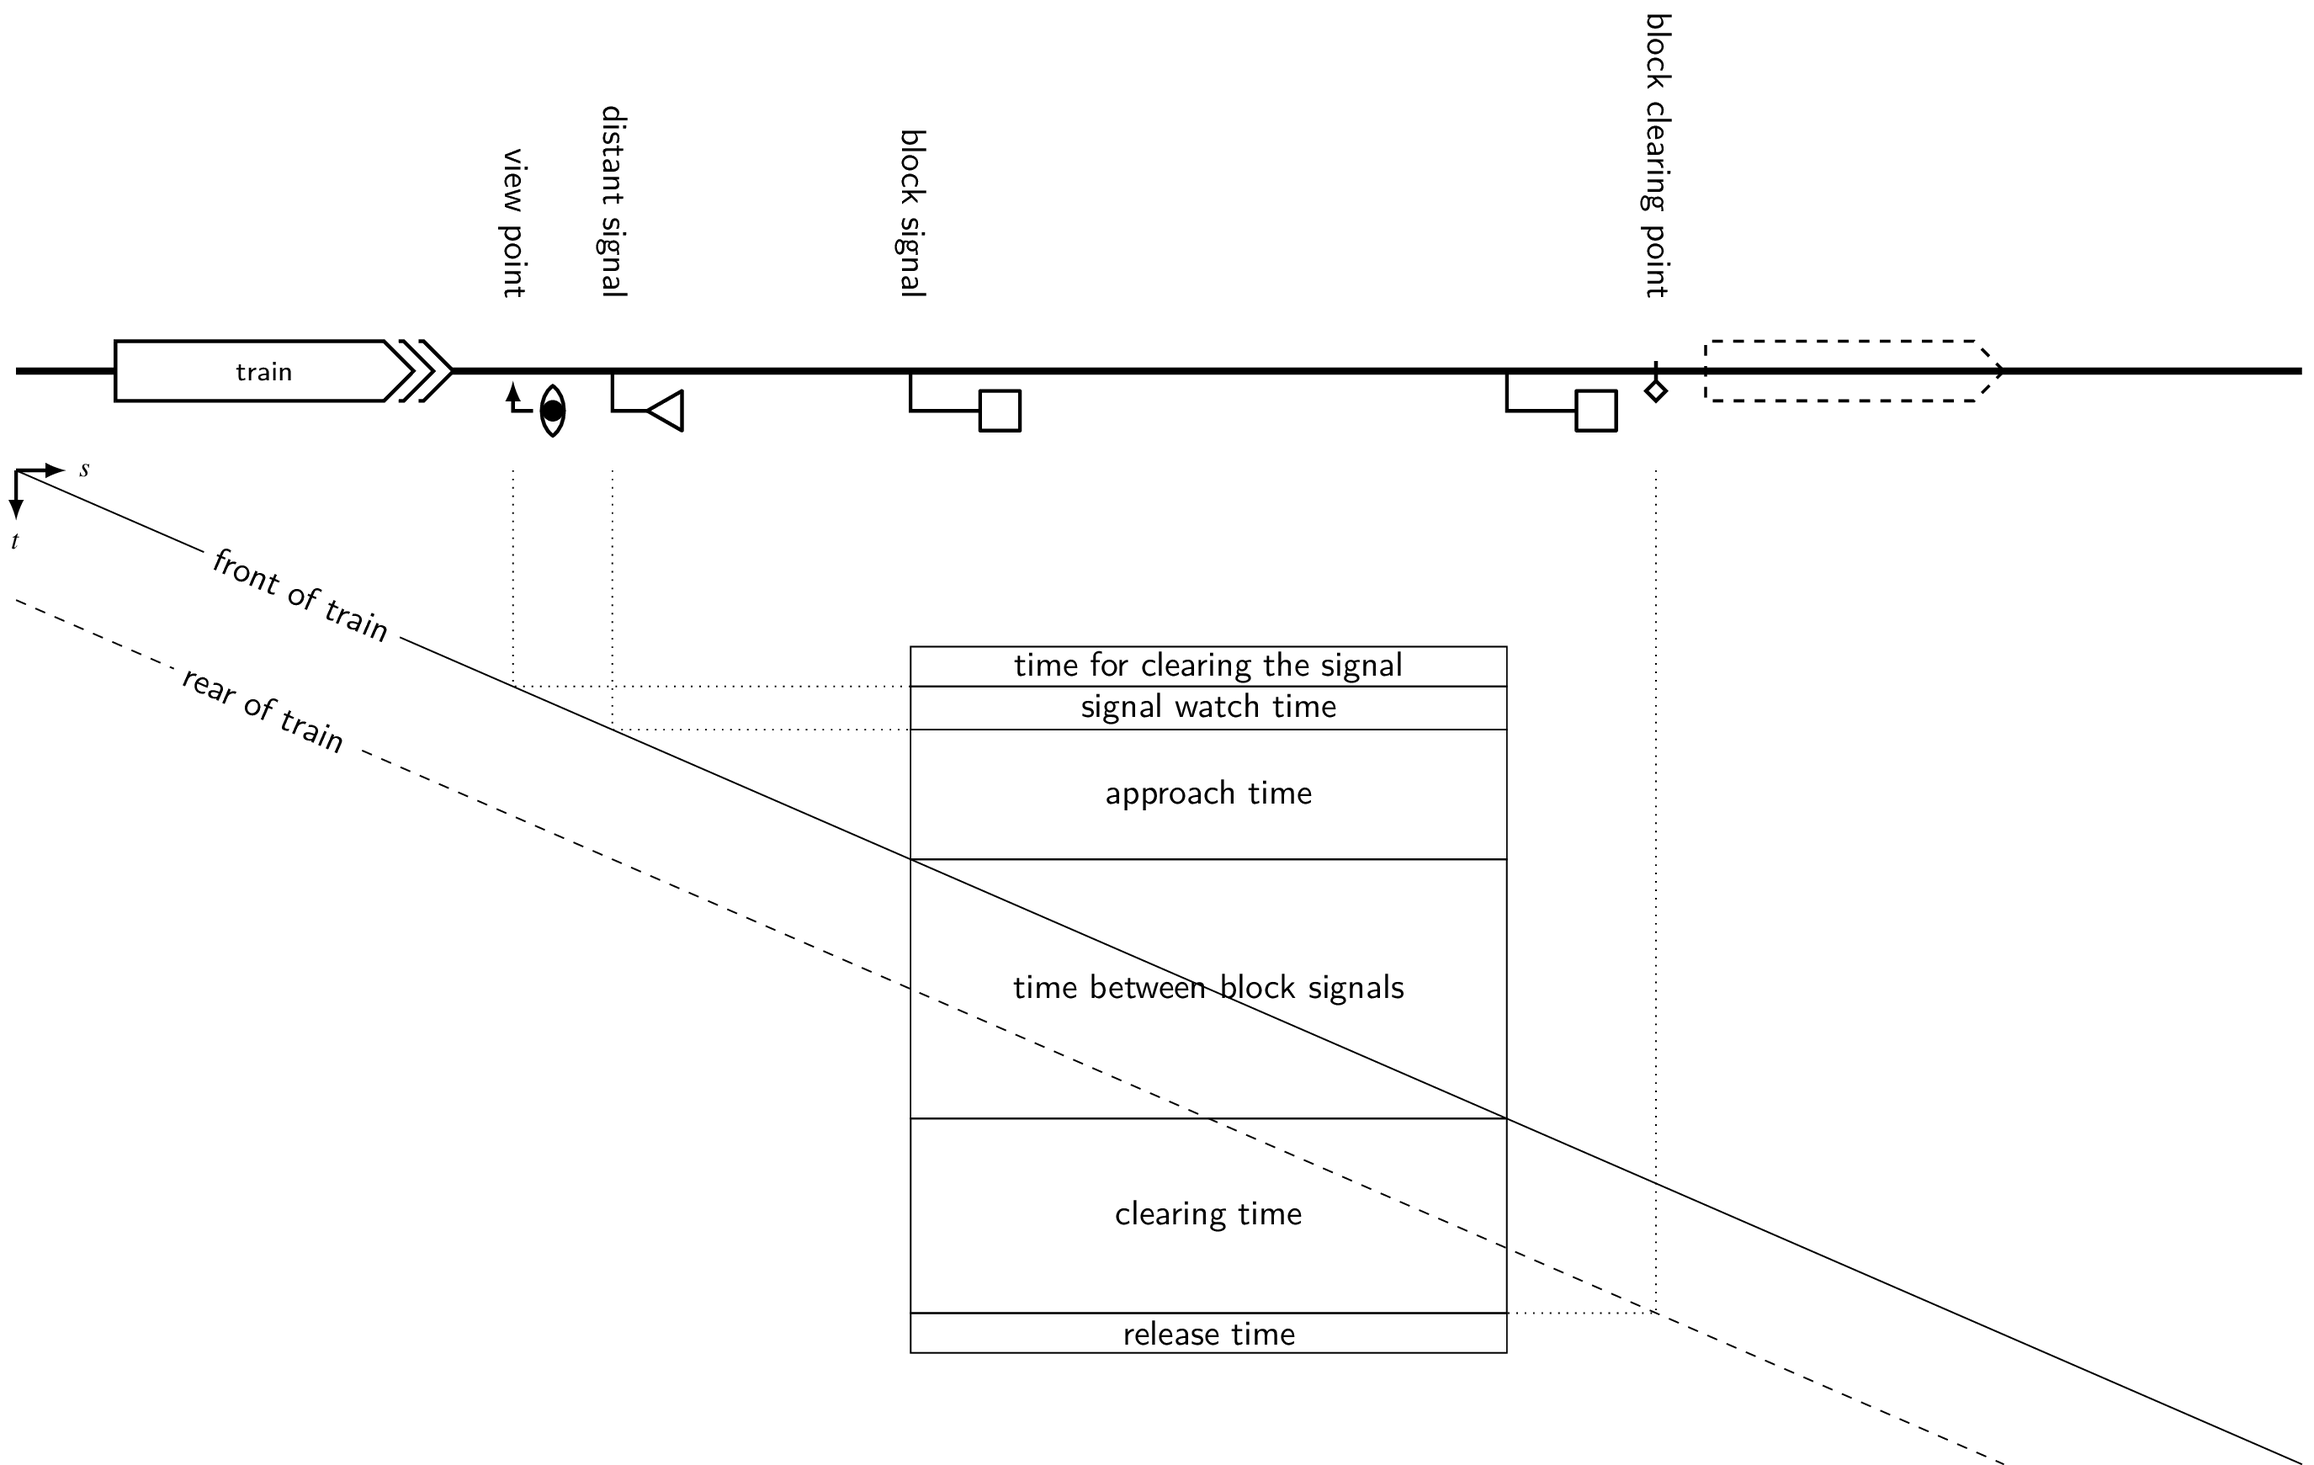
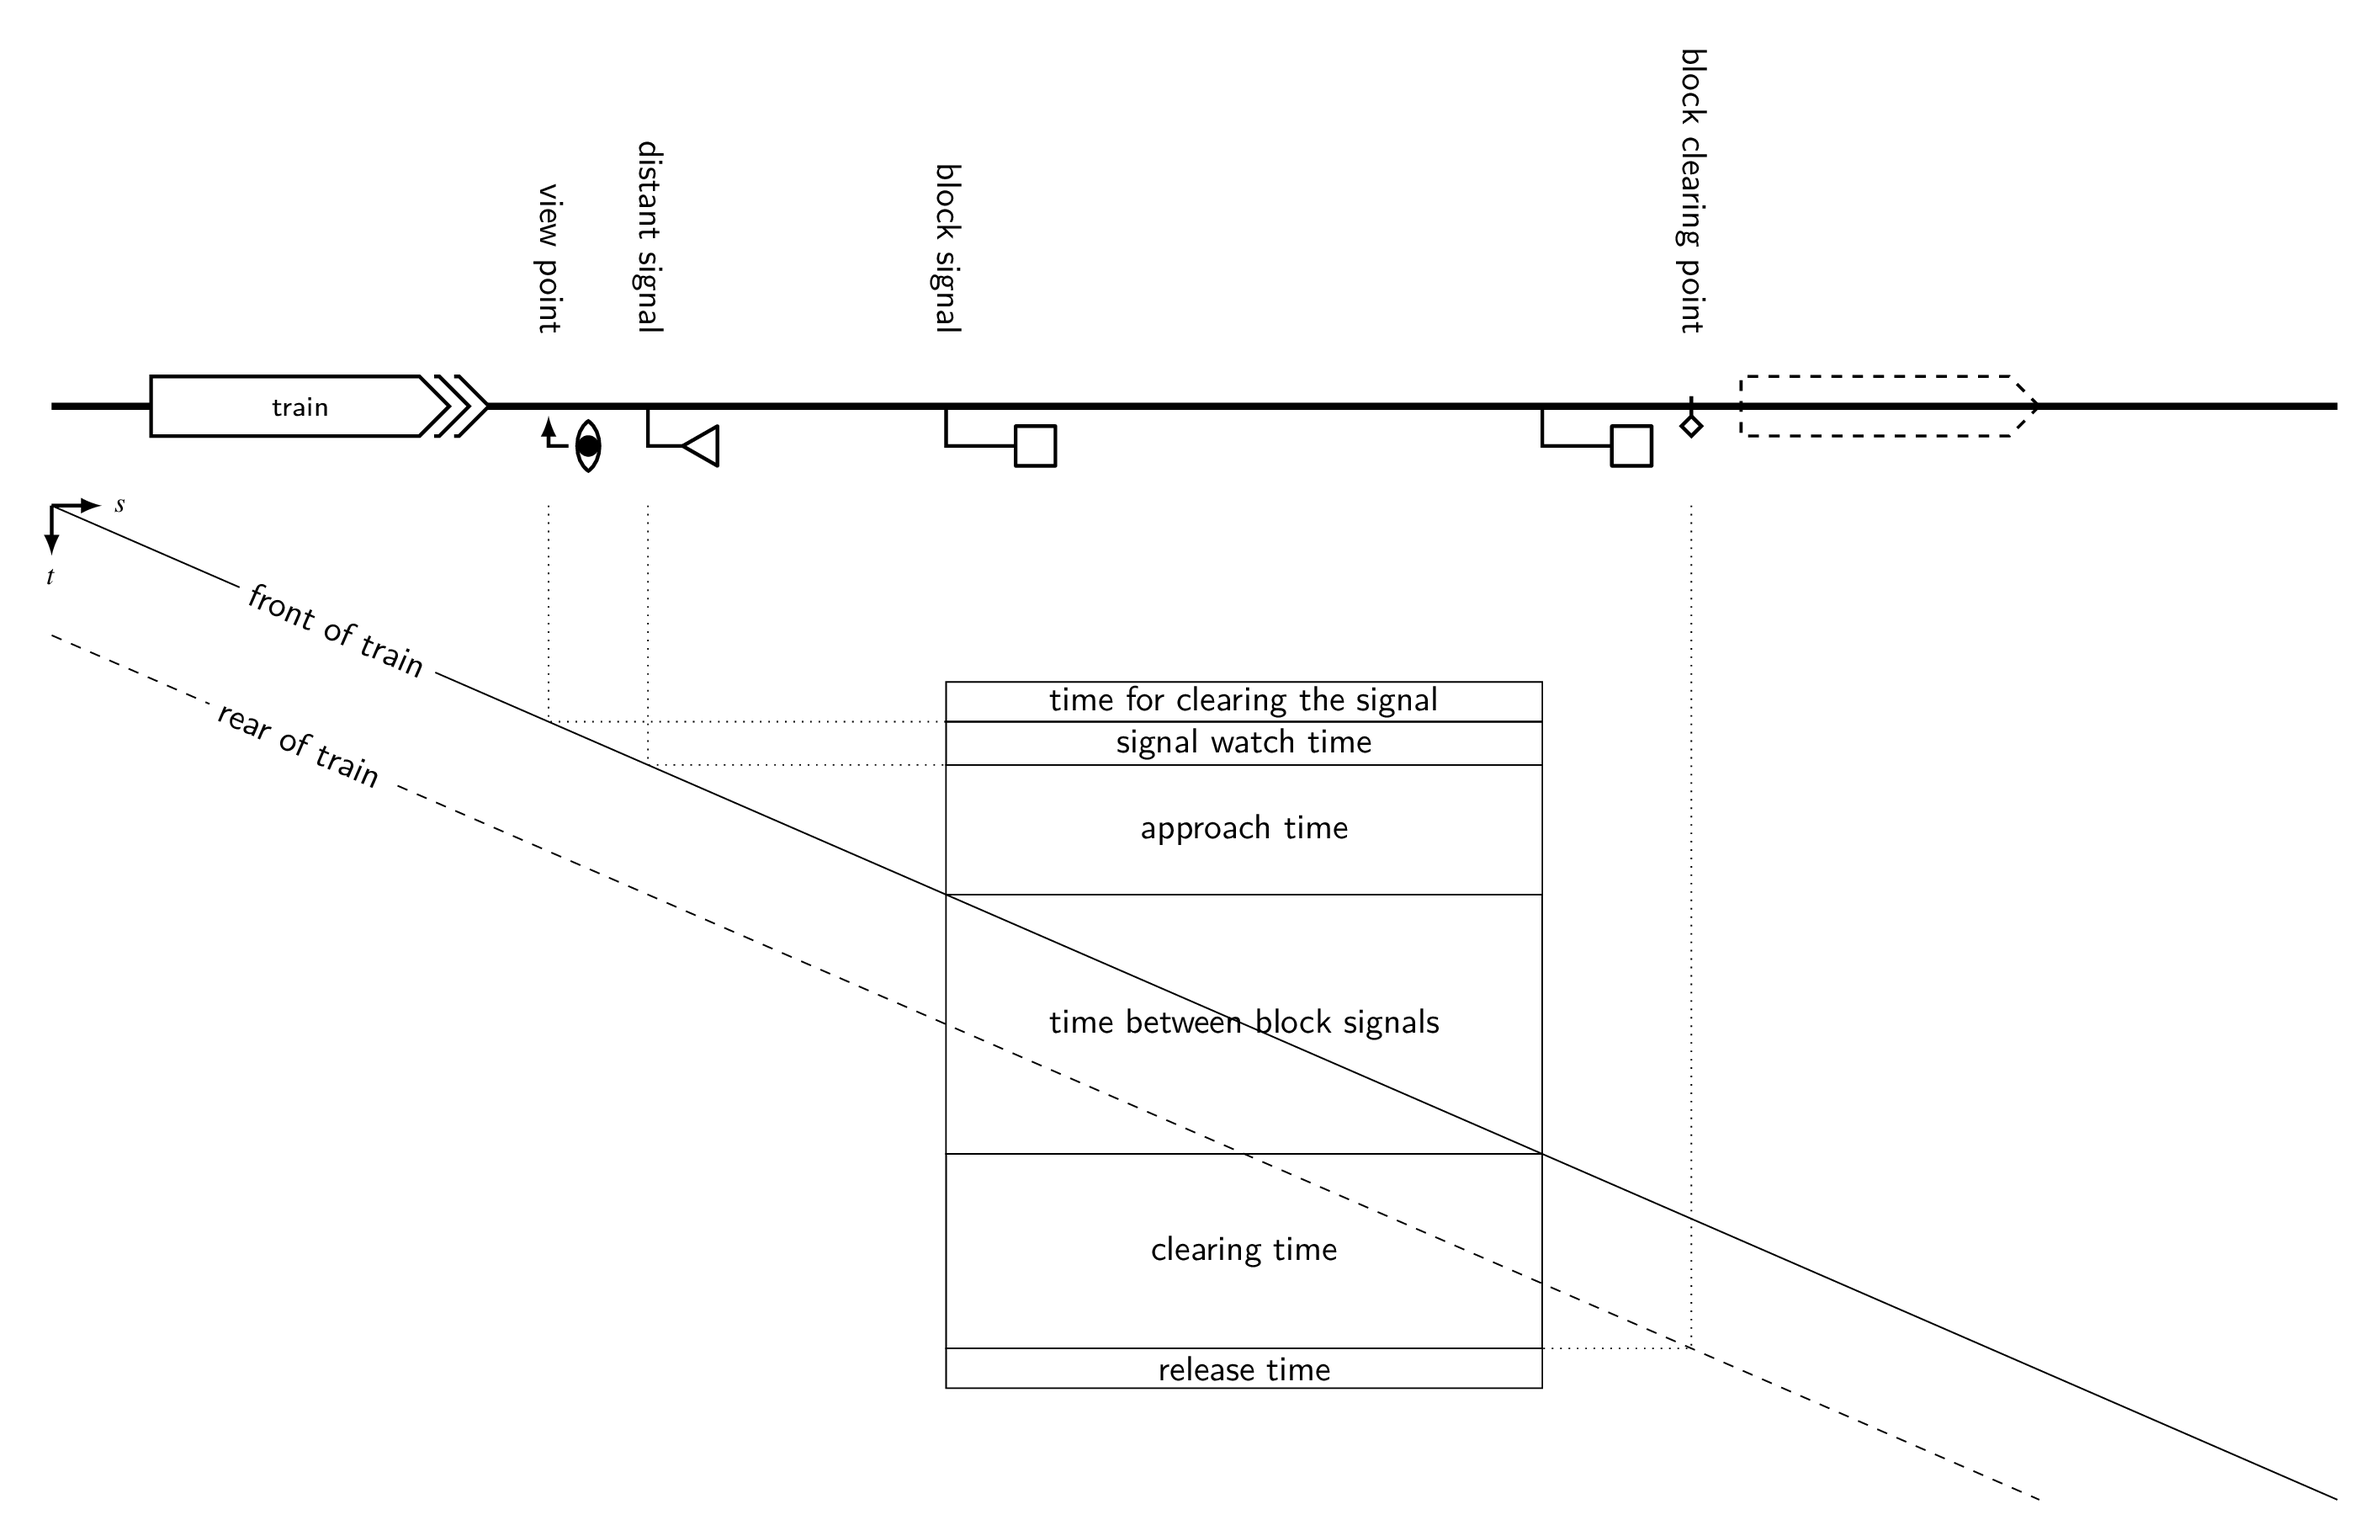
fix issue #1 with images in darkmode

diff --git a/figures/blocking_time_light.tex b/figures/blocking_time_light.tex
@@ -3,19 +3,22 @@
 % Copyright 2022 Martin Scheidt, ORCID: 0000-0002-9384-8945 (ISC license)
 % Permission to use, copy, modify, and/or distribute this file for any purpose with or without fee is hereby granted, provided that the above copyright notice and this permission notice appear in all copies.
 
-\documentclass[border=0cm]{standalone}
+\documentclass[border=0.2cm]{standalone}
 
 \usepackage{lmodern,microtype,mathptmx,courier,tikz-trackschematic}
 \usepackage[main=english,ngerman]{babel}
 \usepackage{iflang} % needs babel
 \newcommand{\IfLanguage}[2]{\IfLanguageName{#1}{#2}{}}
-\usetikzlibrary{intersections,calc}
+\usetikzlibrary{intersections,calc,backgrounds}
+
+\colorlet{background}{white}
+\colorlet{foreground}{black}
 
 \begin{document}
 
   % \selectlanguage{ngerman}% or comment for english
 
-  \begin{tikzpicture}[font=\sffamily]
+  \begin{tikzpicture}[font=\sffamily,background rectangle/.style={fill=background}, show background rectangle]
     \input{blocking_time.tikz}
   \end{tikzpicture}
 

diff --git a/figures/infra_light.tex b/figures/infra_light.tex
@@ -3,14 +3,17 @@
 % Copyright 2022 Martin Scheidt, ORCID: 0000-0002-9384-8945 (ISC license)
 % Permission to use, copy, modify, and/or distribute this file for any purpose with or without fee is hereby granted, provided that the above copyright notice and this permission notice appear in all copies.
 
-\documentclass[border=0cm]{standalone}
+\documentclass[border=0.2cm]{standalone}
 
 \usepackage{lmodern,microtype,mathptmx,courier,tikz-trackschematic}
-\usetikzlibrary{calc}
+\usetikzlibrary{calc,backgrounds}
+
+\colorlet{background}{white}
+\colorlet{foreground}{black}
 
 \begin{document}
 
-  \begin{tikzpicture}[font=\sffamily]
+  \begin{tikzpicture}[font=\sffamily,background rectangle/.style={fill=background}, show background rectangle]
     \input{infra.tikz}
   \end{tikzpicture}
 

diff --git a/figures/blocking_time_dark.tex b/figures/blocking_time_dark.tex
@@ -3,7 +3,7 @@
 % Copyright 2022 Martin Scheidt, ORCID: 0000-0002-9384-8945 (ISC license)
 % Permission to use, copy, modify, and/or distribute this file for any purpose with or without fee is hereby granted, provided that the above copyright notice and this permission notice appear in all copies.
 
-\documentclass[border=0cm]{standalone}
+\documentclass[border=0.2cm]{standalone}
 
 \usepackage{lmodern,microtype,mathptmx,courier,tikz-trackschematic}
 \usepackage[main=english,ngerman]{babel}

diff --git a/figures/infra_dark.tex b/figures/infra_dark.tex
@@ -3,7 +3,7 @@
 % Copyright 2022 Martin Scheidt, ORCID: 0000-0002-9384-8945 (ISC license)
 % Permission to use, copy, modify, and/or distribute this file for any purpose with or without fee is hereby granted, provided that the above copyright notice and this permission notice appear in all copies.
 
-\documentclass[border=0cm]{standalone}
+\documentclass[border=0.2cm]{standalone}
 
 \usepackage{lmodern,microtype,mathptmx,courier,tikz-trackschematic}
 \usetikzlibrary{calc,backgrounds}
